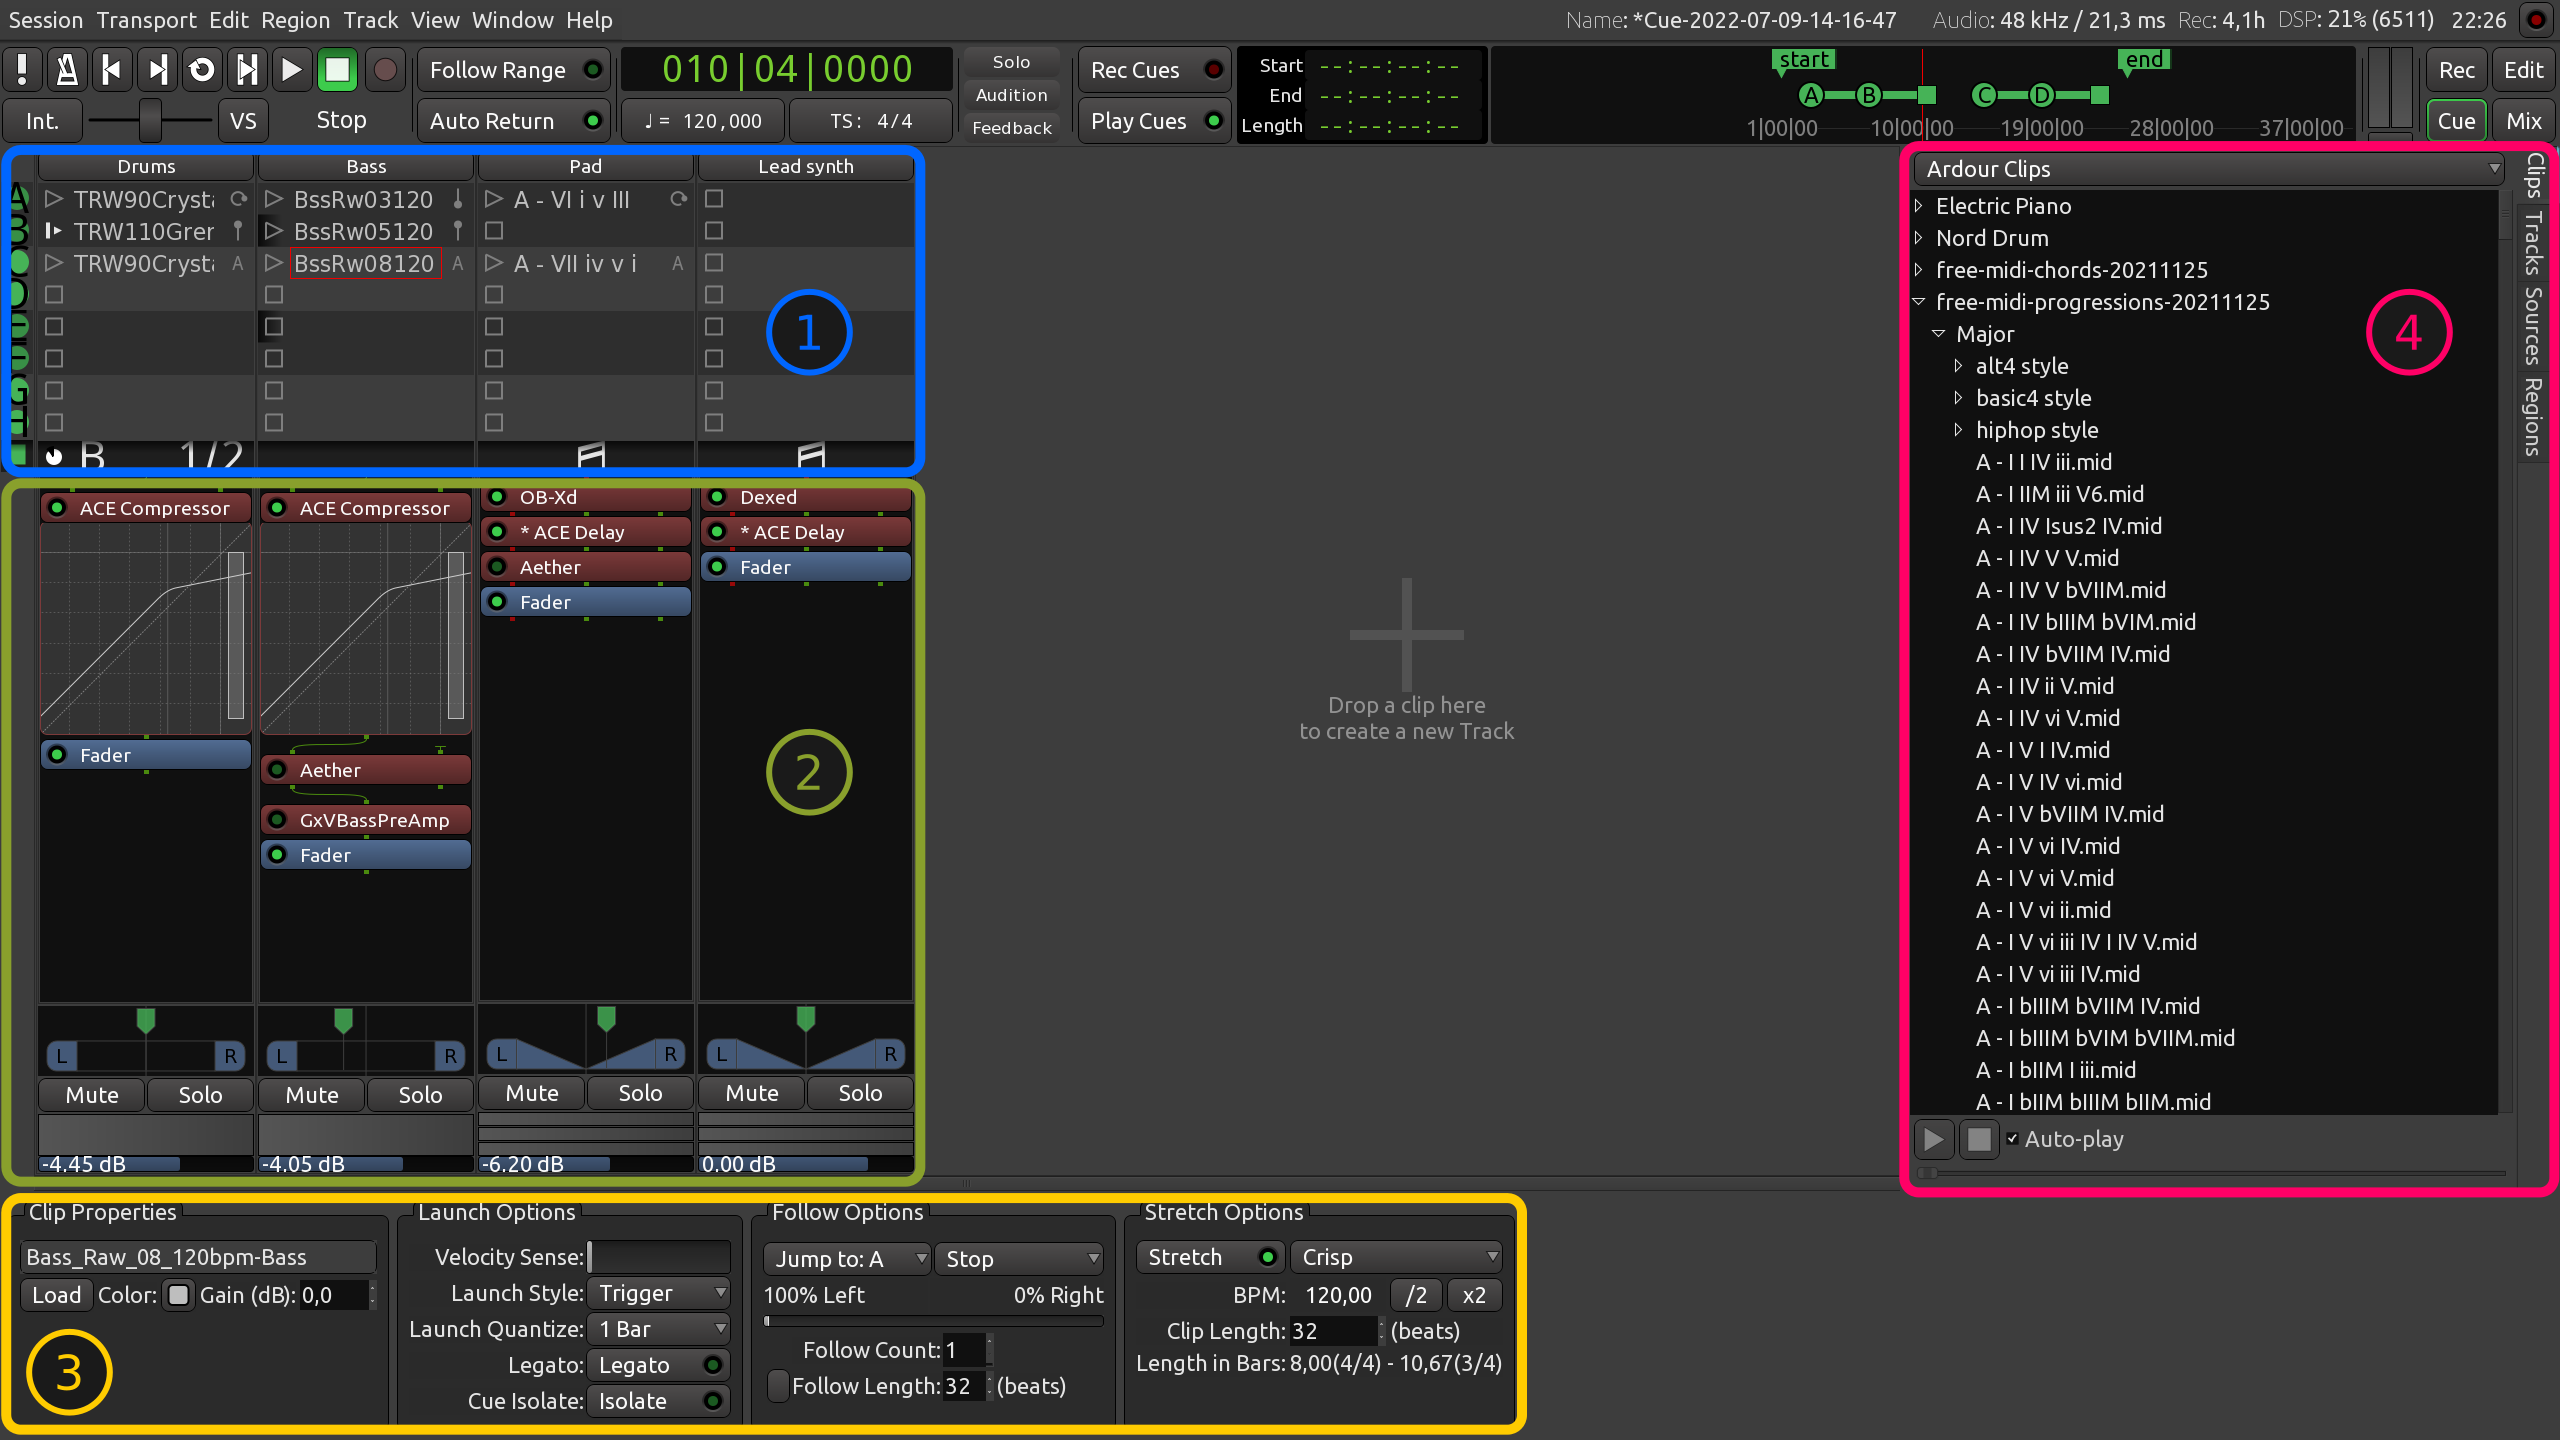
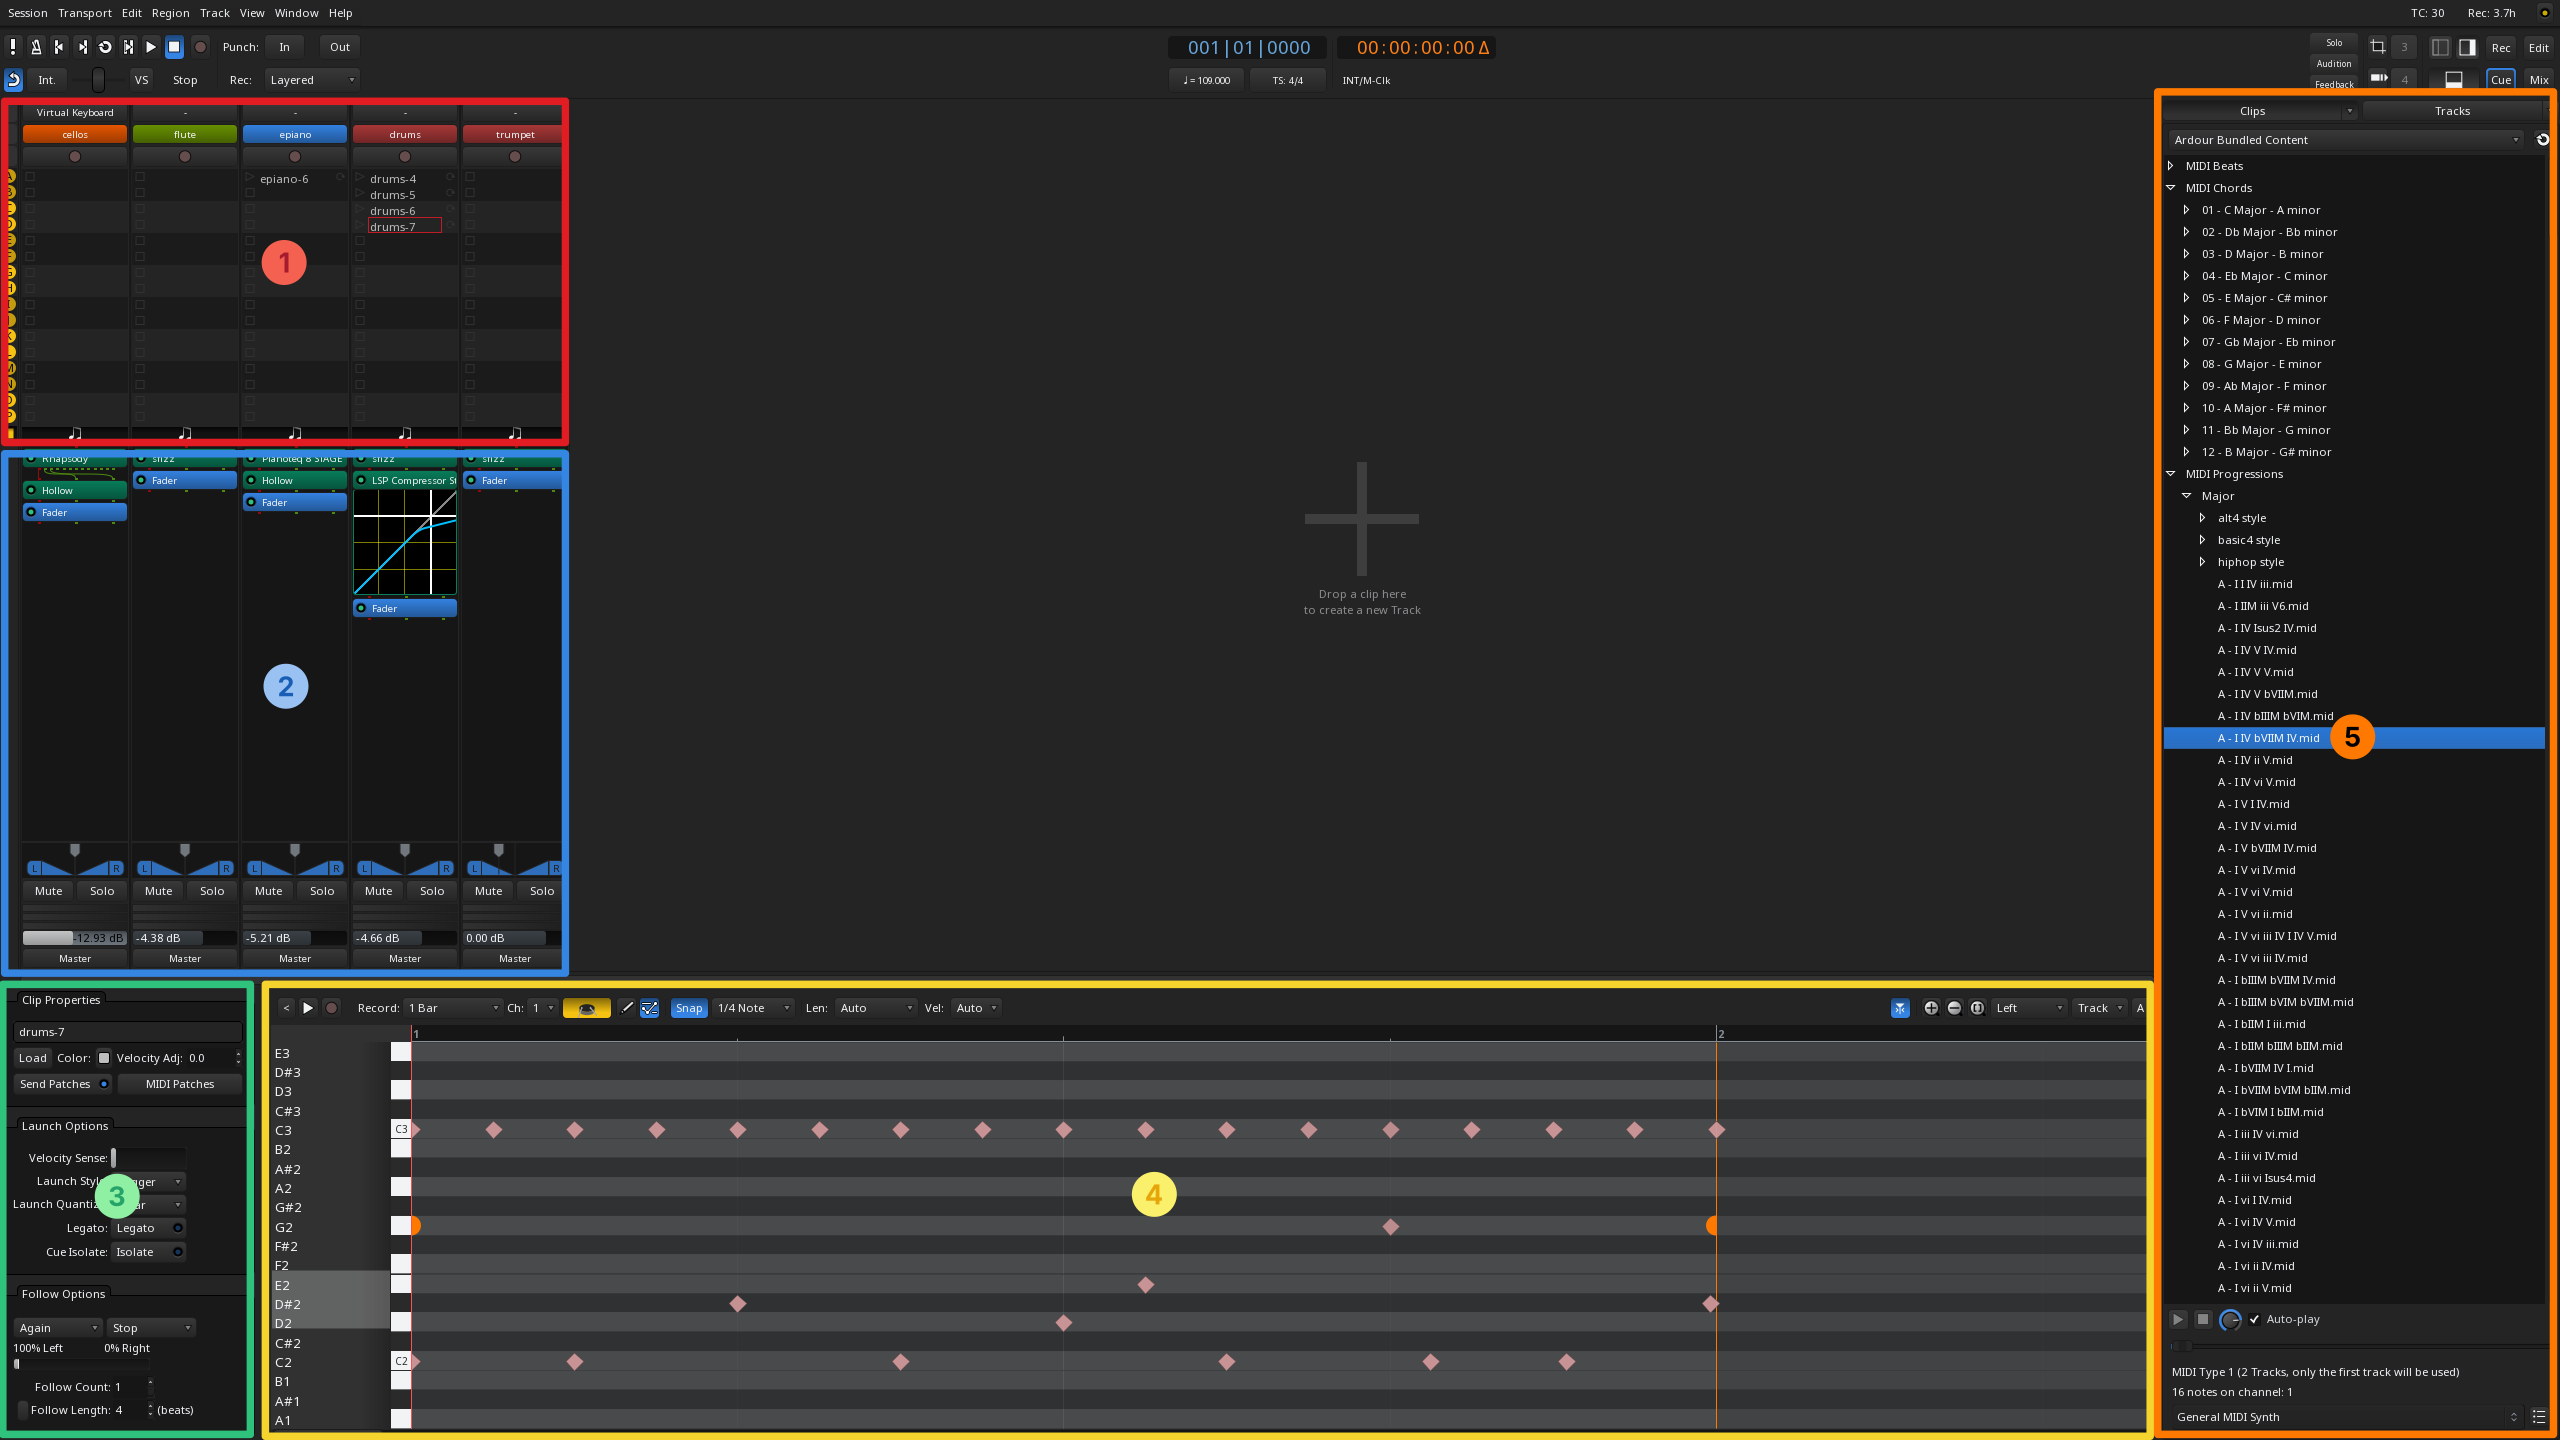
Update cue window elements

diff --git a/include/cue-window-elements.html b/include/cue-window-elements.html
@@ -16,6 +16,7 @@
 	<li>Grid of tracks and cues, playback indicators</li>
 	<li>Mixer channel section</li>
 	<li>Clip and trigger slot options</li>
+	<li>Clip editor</li>
 	<li>Sidebar: Clips, Tracks, Sources, and Regions</li>
 </ol>
 
@@ -34,7 +35,7 @@
 </p>
 
 <p>
-	<dfn>Cue buttons</dfn> (A to H) to the left of the grid initiate the
+	<dfn>Cue buttons</dfn> (A to P) to the left of the grid initiate the
 	playback of an entire cue. Right-clicking on them opens a menu where it's
 	possible to set the same options for all clips and trigger slots in that
 	cue: 